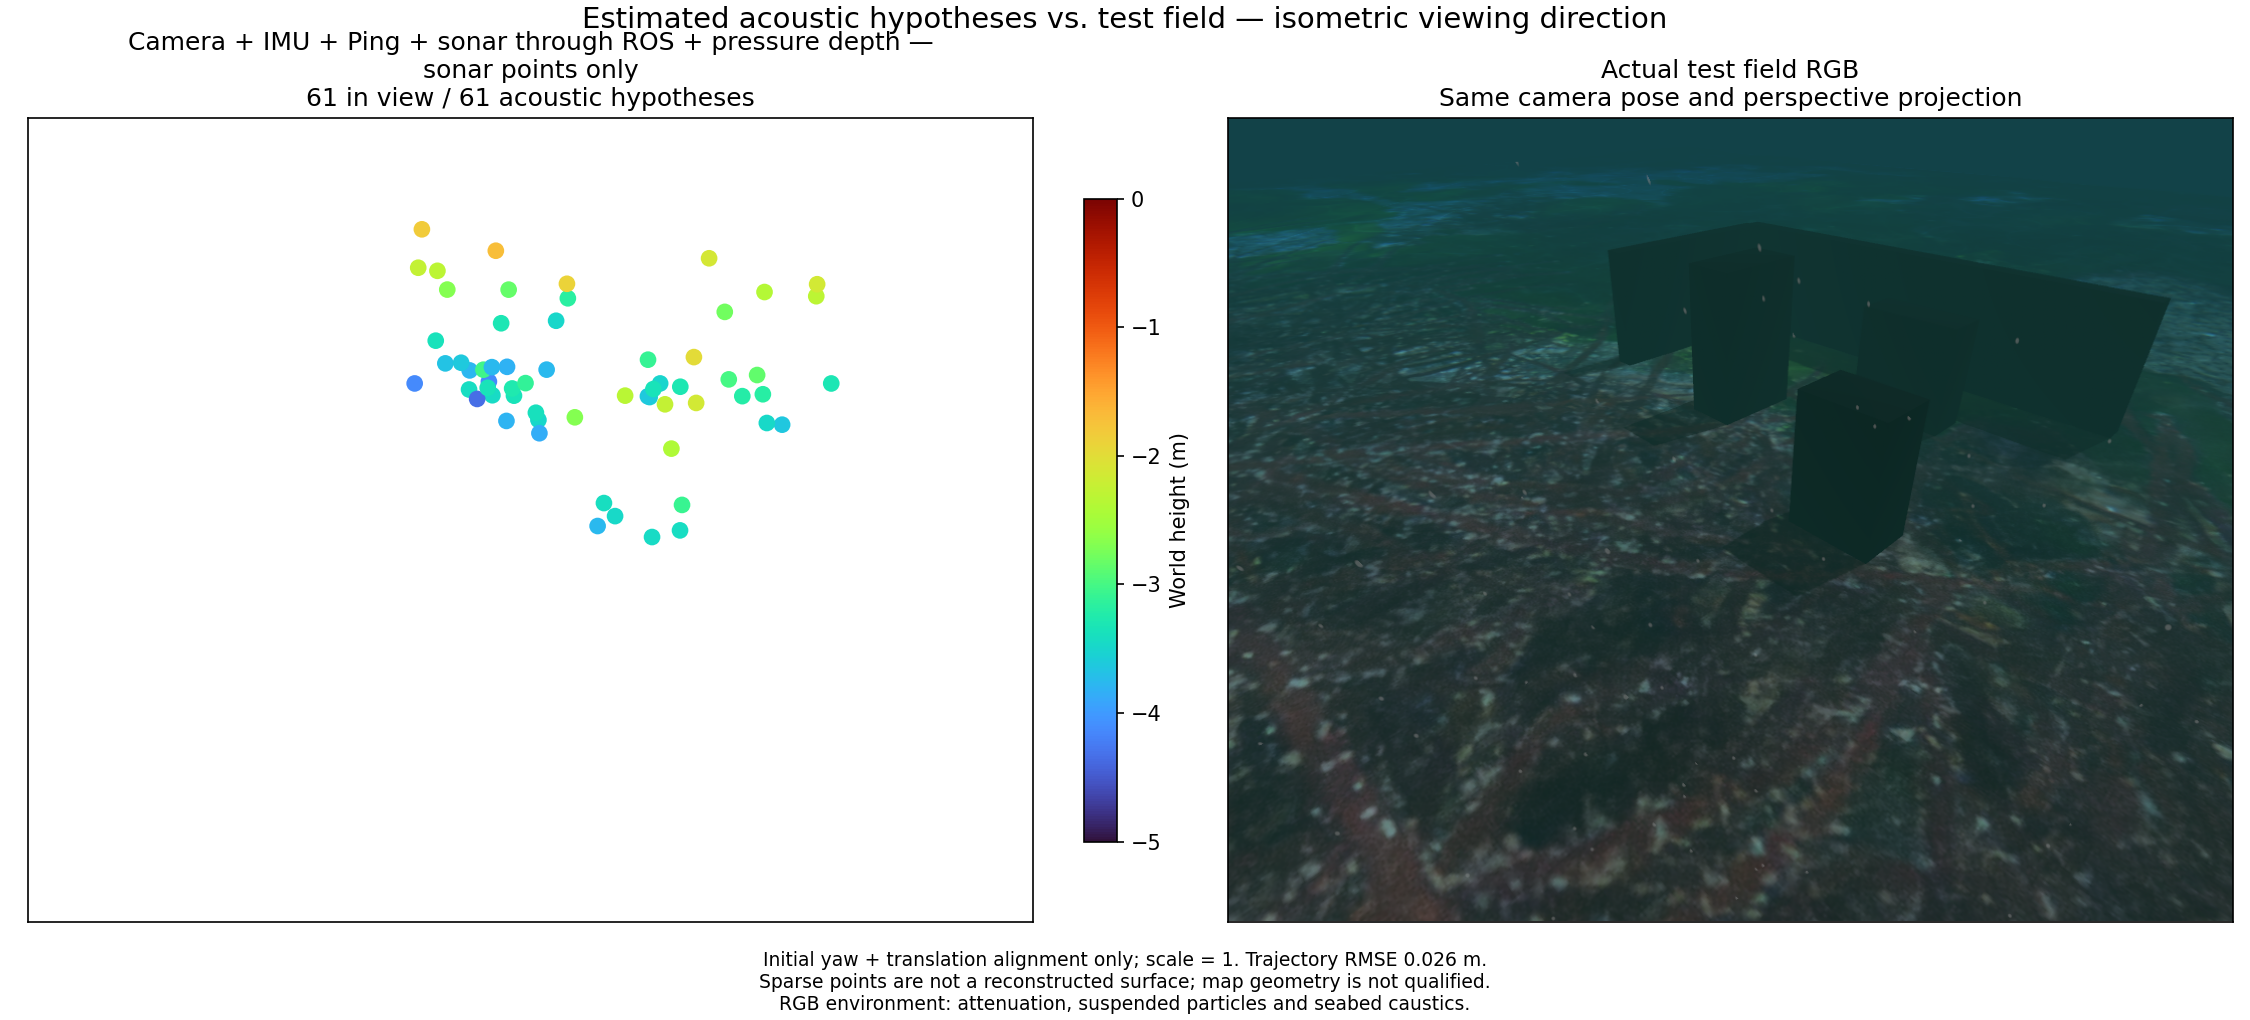
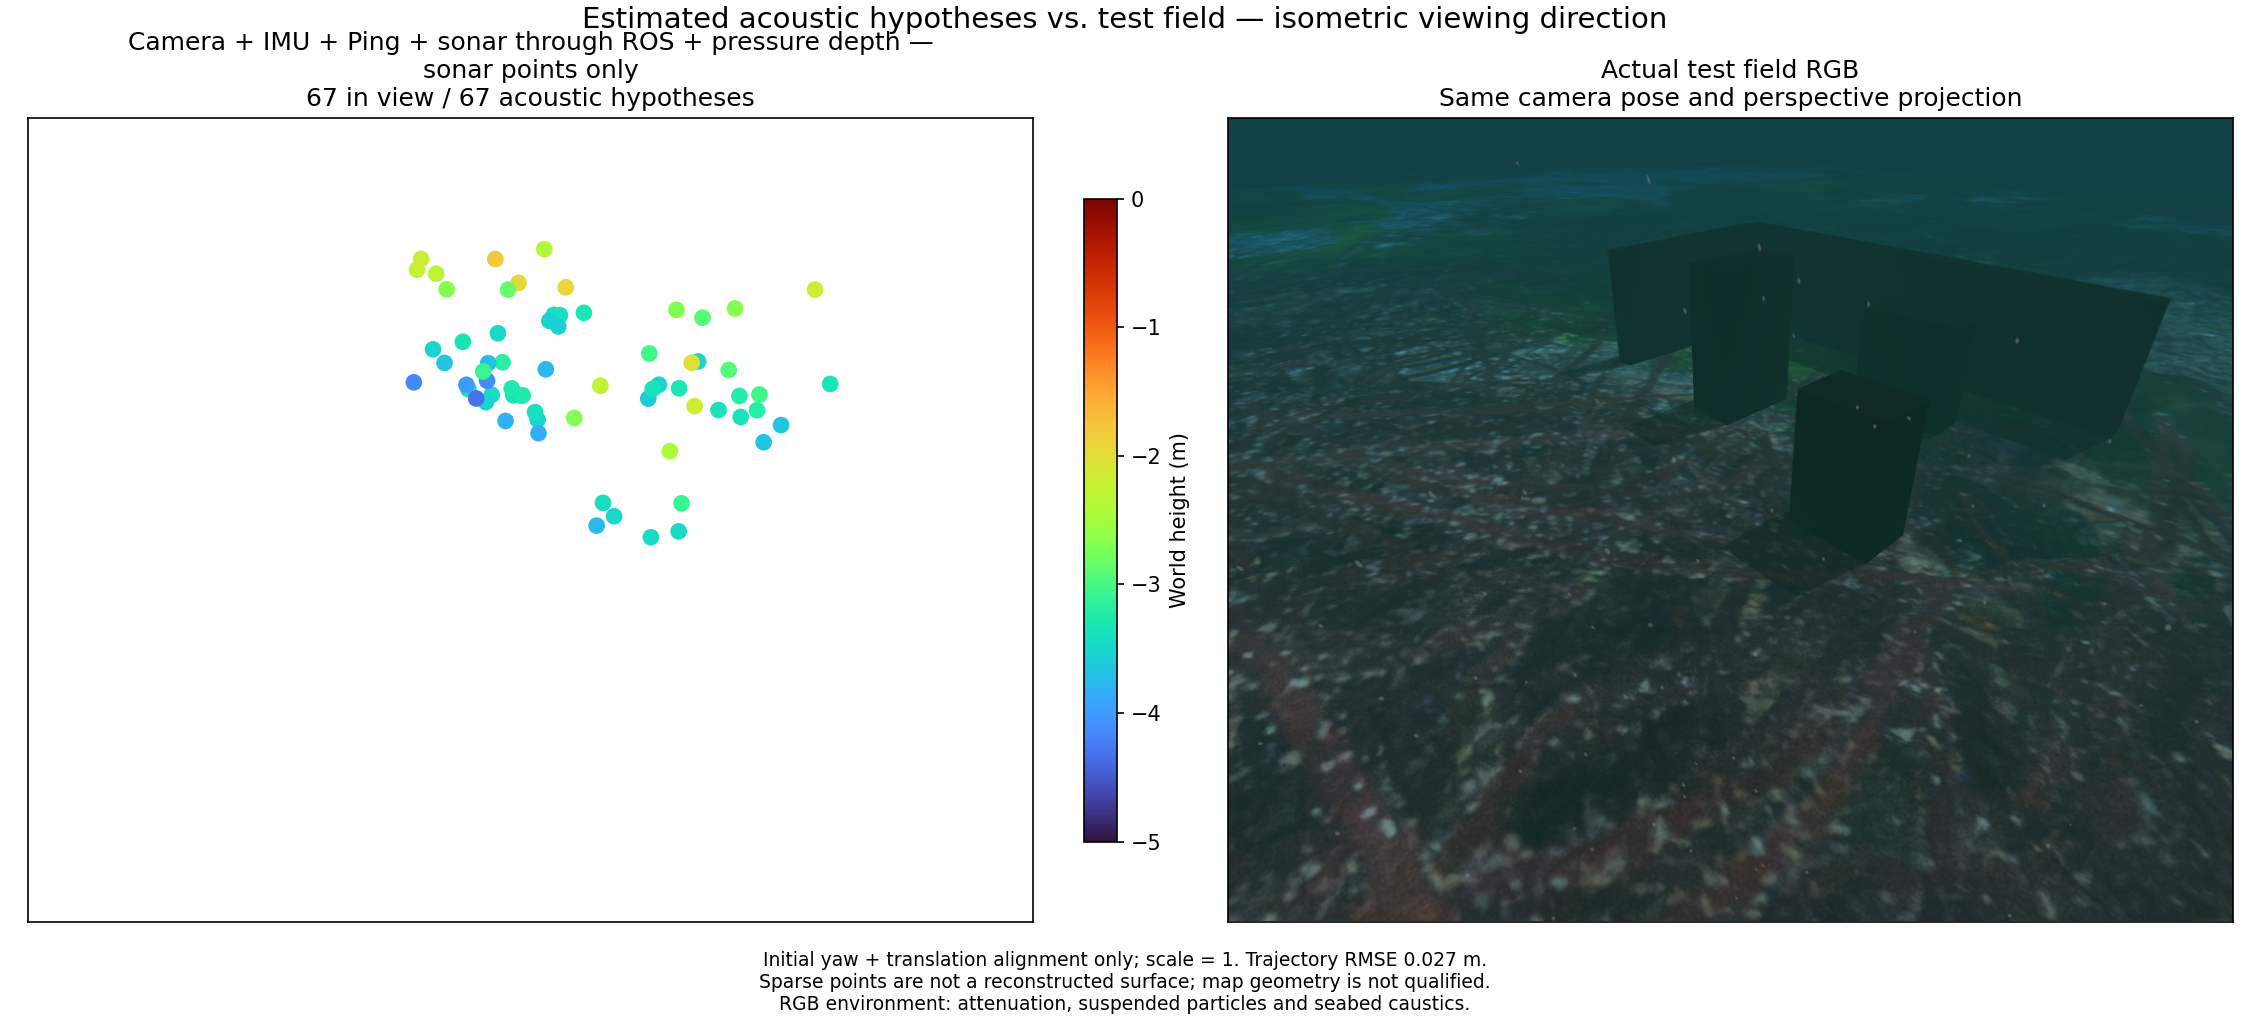
Reduce joint groups once per damped optimizer trial

Changed region(s): [[0.1867, 0.2431, 0.3733, 0.4255]]

diff --git a/native/basalt/ping_linearization.hpp b/native/basalt/ping_linearization.hpp
@@ -155,11 +155,17 @@ class PingLinearization final : public basalt::LinearizationAbsQR<double,6> {
     return cost;
   }
 
-  void performQR() override {
+  void performQR() override { performQR(0.); }
+
+  // Optimization reduces the raw group once with its trial damping. The
+  // polymorphic no-argument path remains undamped for marginalization.
+  void performQR(double nuisance_damping) {
     if(phase_!=Phase::Raw || revision_!=owner_->posim_ping_state_revision)throw std::logic_error("joint_qr_requires_linearization");
+    if(!std::isfinite(nuisance_damping) || nuisance_damping<0. || nuisance_damping>1e12)
+      throw std::invalid_argument("invalid_joint_nuisance_damping");
     Parent::performQR();
     for(auto& group:groups_)
-      group.reduced=eliminateJointPatch(group.raw.jacobian,group.raw.residual,aom.total_size);
+      group.reduced=eliminateJointPatch(group.raw.jacobian,group.raw.residual,aom.total_size,nuisance_damping);
     phase_=Phase::Reduced;
   }
 
@@ -169,11 +175,6 @@ class PingLinearization final : public basalt::LinearizationAbsQR<double,6> {
       h.noalias()+=group.reduced.jacobian.transpose()*group.reduced.jacobian;
       b.noalias()+=group.reduced.jacobian.transpose()*group.reduced.residual;
     }
-  }
-  void dampNuisance(double damping) {
-    requireReduced();
-    for(auto& group:groups_)
-      group.reduced=eliminateJointPatch(group.raw.jacobian,group.raw.residual,aom.total_size,damping);
   }
   void get_dense_Q2Jp_Q2r(MatX& j,VecX& r) const override {
     requireReduced();Parent::get_dense_Q2Jp_Q2r(j,r);

diff --git a/native/basalt/ping_linearization_probe.cc b/native/basalt/ping_linearization_probe.cc
@@ -202,6 +202,19 @@ int main(int argc,char** argv) {
     Eigen::VectorXd full_r(ir.size()+raw.residual.size());full_r<<ir,raw.residual;
     const auto reduced=eliminateJointPatch(full,full_r,45);
     const double information_error=(h-reduced.jacobian.transpose()*reduced.jacobian).norm();
+    // Direct damped reduction must preserve the full coupled landmark/plane
+    // system. Check against a dense Schur solve, including independent rows.
+    for(double damping:{.001,1.,1000.}) {
+      joint.linearizeProblem();joint.performQR(damping);
+      Eigen::MatrixXd dh;Eigen::VectorXd db;joint.get_dense_H_b(dh,db);
+      const Eigen::MatrixXd a=raw.jacobian.leftCols(45),n=raw.jacobian.rightCols(raw.jacobian.cols()-45);
+      Eigen::MatrixXd hn=n.transpose()*n;
+      hn.diagonal().array()+=(n.colwise().squaredNorm().transpose().array()*damping).max(1e-9);
+      const Eigen::MatrixXd expected_h=ij.transpose()*ij+a.transpose()*a-a.transpose()*n*hn.ldlt().solve(n.transpose()*a);
+      const Eigen::VectorXd expected_b=ij.transpose()*ir+a.transpose()*raw.residual-a.transpose()*n*hn.ldlt().solve(n.transpose()*raw.residual);
+      if(((dh-expected_h).norm()+(db-expected_b).norm())/std::max(1.,expected_h.norm()+expected_b.norm())>1e-10)
+        throw std::runtime_error("direct_damped_joint_schur_mismatch");
+    }
     // Marginalization selects the complete coupled group, excluding the
     // independent visual track that remains live. IMU/prior appear once.
     const auto saved_raw=raw;

diff --git a/native/basalt/ping_optimizer.hpp b/native/basalt/ping_optimizer.hpp
@@ -102,8 +102,9 @@ inline PingOptimizationReport optimizePingGroups(basalt::BundleAdjustmentBase<do
       if(pressure) {pressure_rows=pressure->linearize(owner,order);before+=pressure_rows->cost;}
       const auto visual_support=visualProjectionSupport(owner,order);
       if(iteration==0 && attempt==0)report.initial_cost=report.final_cost=before;
-      linearization->performQR();Eigen::MatrixXd h;Eigen::VectorXd b;
-      if(!groups.empty())static_cast<PingLinearization&>(*linearization).dampNuisance(damping);
+      if(groups.empty())linearization->performQR();
+      else static_cast<PingLinearization&>(*linearization).performQR(damping);
+      Eigen::MatrixXd h;Eigen::VectorXd b;
       linearization->get_dense_H_b(h,b);
       if(dvl_rows) {
         for(size_t i=0;i<dvl_rows->offsets.size();++i) {

diff --git a/native/basalt/terrain_ping_probe.cc b/native/basalt/terrain_ping_probe.cc
@@ -81,7 +81,7 @@ int main() {
     if((j.transpose()*j-h).norm()>1e-8 || (j.transpose()*r-g).norm()>1e-8)
       throw std::runtime_error("terrain_joint_schur_mismatch");
     for(double damping:{.001,1.,1000.}) {
-      lin.dampNuisance(damping);lin.get_dense_Q2Jp_Q2r(j,r);
+      lin.linearizeProblem();lin.performQR(damping);lin.get_dense_Q2Jp_Q2r(j,r);
       Eigen::Matrix3d hn=b.transpose()*b;
       hn.diagonal().array()+=(b.colwise().squaredNorm().transpose().array()*damping).max(1e-9);
       const Eigen::MatrixXd hd=a.transpose()*a-a.transpose()*b*hn.ldlt().solve(b.transpose()*a);

diff --git a/docs/diagnostics/mixed-sonar-pressure.md b/docs/diagnostics/mixed-sonar-pressure.md
@@ -6,32 +6,32 @@ The experimental ROS owner combines camera, raw IMU, single Ping, imaging sonar 
 
 ![Acoustic hypotheses and matched RGB](../images/mixed-pressure-sonar.png)
 
-The recorded ROS/native example exports 1,055 visual points and 61 acoustic hypotheses at a 5 Hz camera cap and 1x playback. Initial yaw/translation alignment keeps scale one. Position RMSE is 0.026 m over the 29.6-second comparison segment. Only 33 acoustic hypotheses lie within 10 cm of a physical surface; surface-distance p90 is 0.252 m and maximum is 0.671 m. The sparse acoustic map does not reconstruct the terrain and remains unqualified.
+The recorded ROS/native example exports 1,063 visual points and 67 acoustic hypotheses at a 5 Hz camera cap and 1x playback. Initial yaw/translation alignment keeps scale one. Position RMSE is 0.027 m over the 30.2-second comparison segment. Only 40 acoustic hypotheses lie within 10 cm of a physical surface; surface-distance p90 is 0.313 m and maximum is 0.664 m. The sparse acoustic map does not reconstruct the terrain and remains unqualified.
 
 Each pair uses the same isometric perspective, fixed Turbo height limits and 4× marker diameter. Field RGB includes underwater attenuation, suspended particles, seabed caustics and sea surface. This RGB overview and simulator geometry are evaluation-only. Estimation uses the recorded onboard camera, raw IMU, Ping, sonar and pressure observations.
 
 ## Integration and processing limits
 
-The 1x sonar interruption/recovery check publishes 208 poses. Loss clears both maps and rejects both exports; a fresh segment recovers 448 visual points, seven acoustic hypotheses and 11 optimized pressure states. The shorter 1x pressure interruption check also passes. Camera/IMU/Ping at a 10 Hz camera cap passes at 0.6x playback with 338 poses and 1,357 exported points. These recorded-input ROS/native checks do not qualify a new Gazebo mission or an installed application.
+The 1x sonar interruption/recovery check publishes 209 poses. Loss clears both maps and rejects both exports; a fresh segment recovers 458 visual points, seven acoustic hypotheses and 11 optimized pressure states. Camera/IMU/Ping at a 10 Hz camera cap passes a 35-second input replay at 1x, with 337 poses and 1,415 exported points. These bounded recorded-input checks do not qualify sustained hardware deadlines or an installed application.
 
-A continuous 1x mixed playback trial fills the 16-event queue after approximately 40 seconds, before the planned sensor interruption. A trace-enabled repeat reaches the planned interruption without that overflow but rejects the recovered sonar export because no map is available. Plain camera/IMU/Ping at 1x also encounters worker input backlog. The short recovery checks reset estimator state during the run and cannot establish sustained real-time performance. Default panel activation remains gated on processing and map quality.
+Two longer mixed-input trials reach the planned pressure interruption without input overflow. Each exports 1,963 visual points and 73 acoustic hypotheses before loss, but neither produces an acoustic map after recovery. The recovery interval is near the surface after the mission: independent truth spans only 3.4 cm and 4.9 cm horizontally, and 11.5 cm vertically. All 336 submitted acoustic track updates are rejected: 169 for insufficient elevation precision, 40 for ambiguous elevation and 127 for inconsistent or unobservable geometry. These counts describe repeated updates, not unique landmarks. This supports insufficient useful viewpoint diversity; it does not rule out association or pose errors. A new sustained maneuver after recovery is needed. Geometry thresholds and empty-map export rejection remain enforced.
 
-Shared nuisance elimination uses thin SVD for the same rank test and minimum-norm back-substitution, followed by implicit Householder transforms of the retained Jacobian and residual. This preserves reduced information, residual cost and state correlations without allocating the full left singular basis. Independent NumPy tests cover tall, wide, rank-deficient, zero and damped systems. Four fixed synthetic systems measure 1.02–13.12× kernel speedup; this is not an end-to-end speedup. Exact camera/Ping pairing also releases a missing match once a strictly later Ping timestamp proves it cannot arrive, retaining the existing queue and timeout limits.
+Shared nuisance elimination uses thin SVD with the original rank test and minimum-norm back-substitution, then implicit Householder transforms. Each optimizer trial reduces the raw group once with its damping. The no-argument marginalization path remains undamped. Independent numerical tests compare reduced information, gradient, residual cost and back-substitution; dense Schur checks cover coupled landmarks and planes at three damping values. The thin-SVD kernel's four synthetic timings are 1.02–13.12× faster than its full-basis predecessor; they do not measure the whole runtime or the removal of duplicate reduction.
 
-The earlier 2.7-second `processing_ms` observation measures owner submission to paired pose/map acknowledgement, including scheduling and queues. It is not an isolated native solve time. Native profiling identifies full-basis elimination as a cost, but the remaining continuous-run bottleneck needs separate measurement. These are standard numerical and stream-ordering improvements, without a research novelty claim.
+Exact camera/Ping pairing releases a missing match when a strictly later Ping proves it cannot arrive. Queue, timeout, noise and geometry thresholds are unchanged. `processing_ms` measures owner submission to paired pose/map acknowledgement, including scheduling and queues. The short mixed trial's maximum is 879 ms. It is not isolated native solve time or a worst-case guarantee. Default mixed-mode activation still requires useful map geometry and broader runtime qualification. These are standard numerical and stream-ordering changes, without a research novelty claim.
 
 ## 한국어
 
 실험용 ROS 경로는 카메라·원본 IMU·단일 Ping·영상 소나·정수압 수심을 결합합니다. 압력 제약은 보정된 분산, 센서 장착 위치와 공유 미지 높이 기준값을 사용합니다. 원래 측정 시각을 유지하며, 검증된 수신 시각은 1 Hz 제약 선택과 독립적으로 입력 정렬을 갱신합니다. 두 지도 모두 센서·실시간 시계에서 최근 압력의 실제 최적화 반영을 확인해야 표시·내보내기를 허용합니다.
 
-위 비교는 카메라 한도 5 Hz, 1배속 재생에서 얻은 시각 점 1,055개와 소나 가설점 61개입니다. 초기 방위각·위치만 정렬하며 축척은 1입니다. 29.6초 비교 구간의 위치 RMSE는 0.026 m이고 소나 점 33개만 실제 표면 10 cm 이내입니다. 표면 거리 오차 p90은 0.252 m, 최대는 0.671 m여서 지형 복원 합격으로 인정하지 않습니다.
+위 비교는 카메라 한도 5 Hz, 1배속 재생에서 얻은 시각 점 1,063개와 소나 가설점 67개입니다. 초기 방위각·위치만 정렬하며 축척은 1입니다. 30.2초 비교 구간의 위치 RMSE는 0.027 m이고 소나 점 40개만 실제 표면 10 cm 이내입니다. 표면 거리 오차 p90은 0.313 m, 최대는 0.664 m여서 지형 복원 합격으로 인정하지 않습니다.
 
 두 비교는 같은 등각 방향 원근 투영, 고정 Turbo 높이 범위와 지름 4배의 점을 사용합니다. RGB에는 수중 감쇠·부유 입자·해저 집광무늬·수면이 포함됩니다. 이 현장 RGB와 지형은 평가용이고, 추정 입력은 기록된 차량 카메라·IMU·Ping·소나·수압입니다.
 
-1배속 소나 중단·복구 시험은 자세 208개를 발행합니다. 중단 시 두 지도를 비우고 내보내기를 거부하며, 새 구간에서 시각 점 448개·소나 가설점 7개·압력 최적화 상태 11개로 복구합니다. 짧은 1배속 압력 중단 시험도 통과합니다. 카메라 한도 10 Hz의 카메라·IMU·Ping 대조 실행은 0.6배속에서 자세 338개와 점 1,357개로 통과합니다. 기록 기반 ROS/네이티브 연동 결과이며 새 Gazebo 주행이나 설치형 앱 합격은 아닙니다.
+1배속 소나 중단·복구 시험은 자세 209개를 발행합니다. 중단 시 두 지도를 비우고 내보내기를 거부하며, 새 구간에서 시각 점 458개·소나 가설점 7개·압력 최적화 상태 11개로 복구합니다. 카메라 한도 10 Hz의 카메라·IMU·Ping 대조 시험은 35초 입력을 1배속으로 재생하여 자세 337개와 점 1,415개로 통과합니다. 제한된 기록 기반 검증이며, 지속적인 하드웨어 처리 시간이나 설치형 앱 합격을 뜻하지 않습니다.
 
-혼합 센서의 연속 1배속 시험에서는 약 40초 뒤, 예정된 센서 중단 전에 16개 입력 큐가 가득 찹니다. 진단 로그를 켠 반복 실행은 큐 초과 없이 예정된 중단까지 진행했지만 복구 후 소나 지도가 없어 내보내기를 거부합니다. 기존 카메라·IMU·Ping의 1배속 실행도 작업자 입력 적체가 발생합니다. 짧은 복구 시험은 중간에 추정 상태를 초기화하므로 지속적인 실시간 성능을 증명하지 못합니다. 패널 기본 활성화에는 처리 성능과 지도 품질 검증이 더 필요합니다.
+더 긴 혼합 입력 시험 두 번은 입력 큐 초과 없이 예정된 압력 중단까지 진행합니다. 각각 중단 전 시각 점 1,963개·소나 가설점 73개를 내보내지만 복구 후 소나 지도는 만들지 못합니다. 복구 구간은 임무가 끝난 뒤 수면 근처이며, 독립 참값의 위치 변화 폭은 수평 3.4 cm·4.9 cm, 수직 11.5 cm뿐입니다. 제출된 소나 트랙 갱신 336건 중 169건은 높이 정밀도 부족, 40건은 높이 해의 모호함, 127건은 기하 불일치 또는 관측 불가능으로 거부됩니다. 고유점 개수가 아닌 반복 갱신 횟수입니다. 유효한 관측 시점 다양성 부족을 뒷받침하지만 대응점이나 자세 오차도 배제할 수 없습니다. 복구 뒤에도 기동이 이어지는 새 시험이 필요합니다. 기하 기준과 빈 지도 내보내기 거부는 유지합니다.
 
-공통 보조 변수 제거는 thin SVD로 같은 랭크 판정과 최소 노름 역대입을 수행하고, Householder 변환을 암시적으로 적용합니다. 전체 좌특이벡터 행렬을 만들지 않으면서 축약 정보·잔차 비용·상태 간 상관을 유지합니다. 독립 NumPy 검증은 긴 행렬·넓은 행렬·랭크 부족·영행렬·감쇠 조건을 포함합니다. 고정 합성 행렬 네 개의 해당 계산은 1.02~13.12배 빨라지지만 전체 실행 속도 개선율은 아닙니다. 카메라/Ping의 정확한 시각 연결은 더 늦은 Ping 수신으로 누락이 확정된 영상을 즉시 해제합니다. 큐와 대기 한도는 그대로입니다.
+공통 보조 변수 제거는 thin SVD로 같은 랭크 판정과 최소 노름 역대입을 수행하고, Householder 변환을 암시적으로 적용합니다. 최적화 시도마다 감쇠를 적용해 원래 그룹을 한 번만 축약합니다. 인자 없는 지도 주변화 경로에는 감쇠를 넣지 않습니다. 독립 수치 검증은 축약 정보·기울기·잔차 비용·역대입을 비교하며, 세 감쇠값에서 랜드마크·평면 결합을 밀집 Schur 계산과 대조합니다. thin SVD의 합성 행렬 네 개는 전체 기저 방식보다 1.02~13.12배 빠르지만 전체 실행이나 중복 제거의 속도 개선율은 아닙니다.
 
-앞선 2.7초 `processing_ms`는 입력 전달부터 자세·지도 응답까지의 시간으로 스케줄링과 큐 대기를 포함합니다. 순수 네이티브 최적화 시간은 아닙니다. 프로파일에서 전체 기저 제거 계산의 비용을 확인했지만 연속 실행의 남은 병목은 별도 측정이 필요합니다. 이번 수정은 알려진 수치 계산·입력 정렬 기법이며 연구 신규성을 주장하지 않습니다.
+카메라/Ping의 정확한 시각 연결은 더 늦은 Ping 수신으로 누락이 확정된 영상을 해제합니다. 큐·대기·잡음·기하 기준은 그대로입니다. `processing_ms`는 입력 전달부터 자세·지도 응답까지로 스케줄링과 큐 대기를 포함합니다. 짧은 혼합 시험의 최댓값은 879 ms이며 순수 최적화 시간이나 최악 조건 보장은 아닙니다. 혼합 모드 기본 활성화에는 유용한 지도와 더 넓은 실행 검증이 필요합니다. 알려진 수치 계산·입력 정렬 기법이며 연구 신규성을 주장하지 않습니다.
